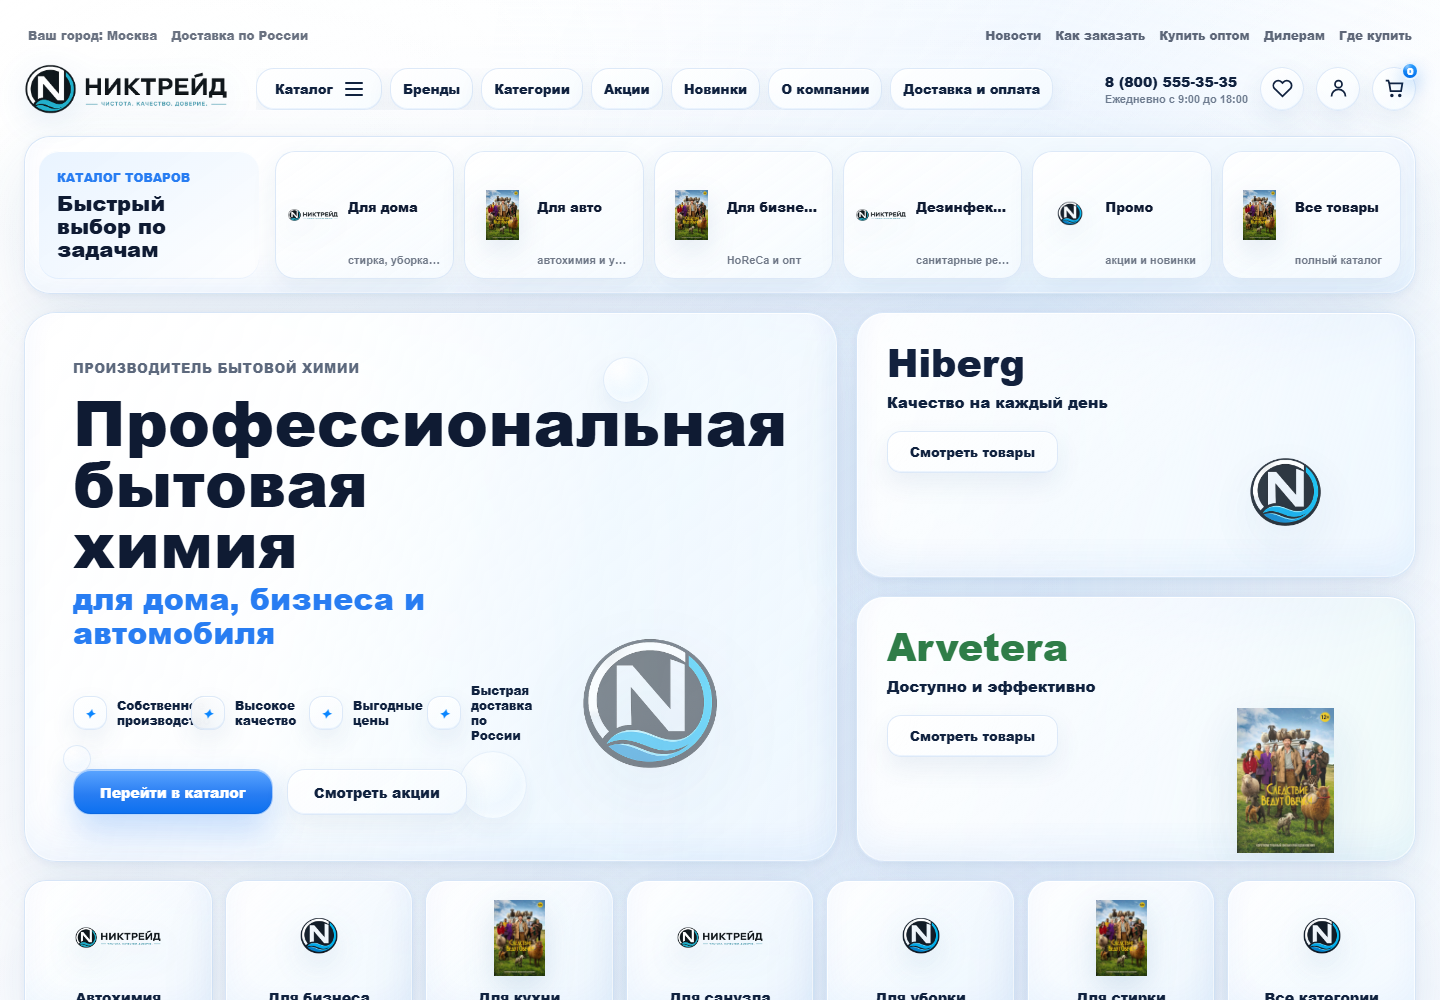
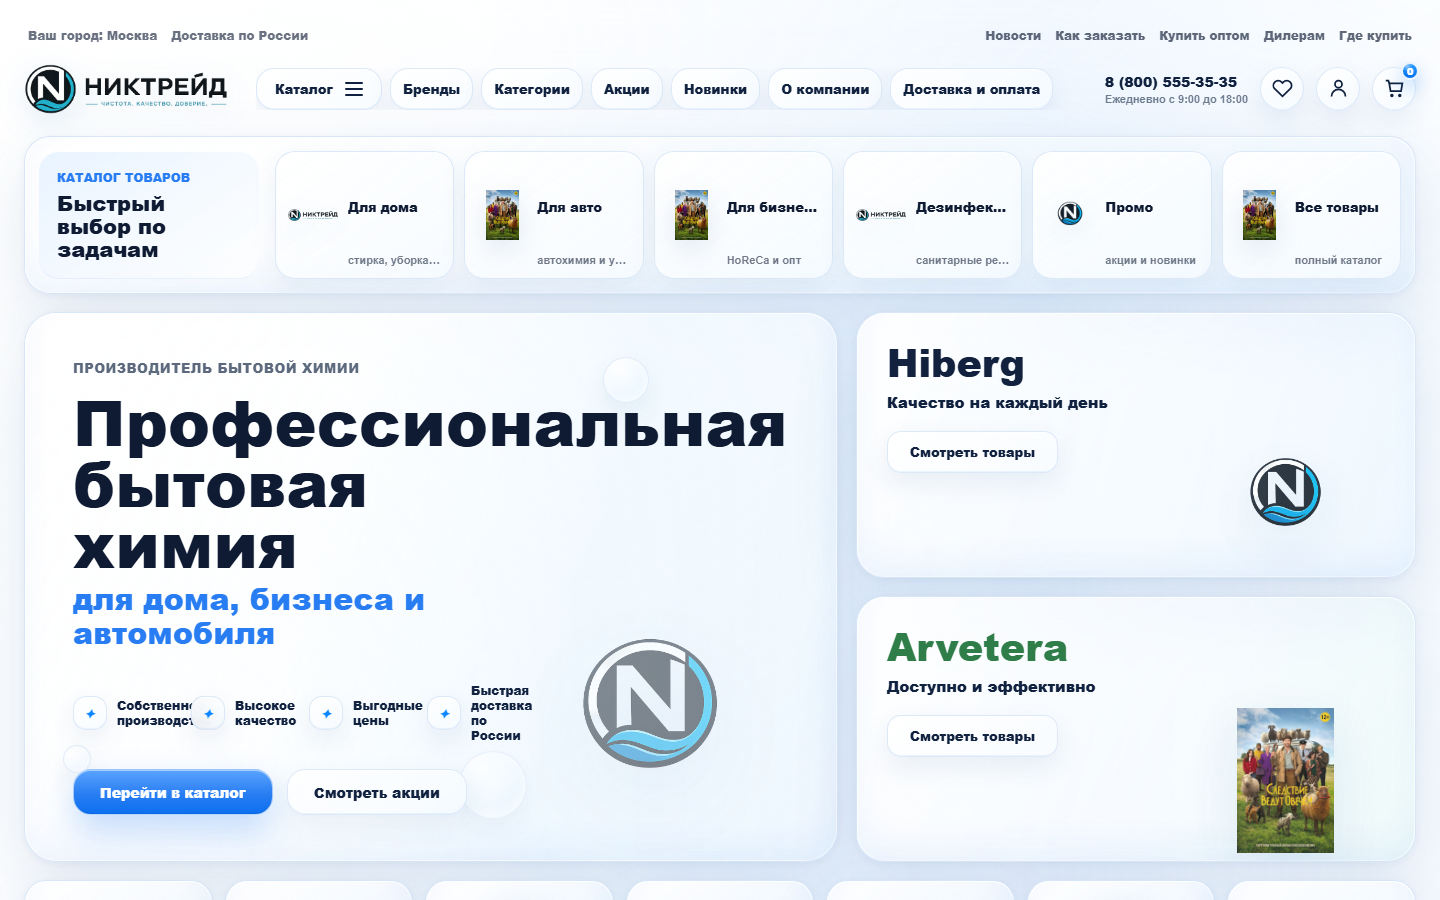
Use catalog2 page as homepage background

diff --git a/resources/views/welcome.blade.php b/resources/views/welcome.blade.php
@@ -23,12 +23,29 @@
         .background {
             position: fixed;
             inset: 0;
-            background-image: url('/images/homepage/niktrade-preview.png');
-            background-size: cover;
-            background-position: top center;
+            overflow: hidden;
+        }
+
+        .background-fallback,
+        .background-frame {
+            position: absolute;
+            inset: 0;
+            width: 100%;
+            height: 100%;
             filter: blur(2px) saturate(1.08) contrast(1.06);
             transform: scale(1.01);
             opacity: 1;
+        }
+
+        .background-fallback {
+            background-image: url('/images/homepage/niktrade-preview.png');
+            background-size: cover;
+            background-position: top center;
+        }
+
+        .background-frame {
+            border: 0;
+            pointer-events: none;
         }
 
         .overlay {
@@ -243,7 +260,16 @@
 </head>
 <body>
 
-<div class="background"></div>
+<div class="background" aria-hidden="true">
+    <div class="background-fallback"></div>
+    <iframe
+        class="background-frame"
+        src="{{ route('catalog.preview') }}"
+        title="Превью страницы catalog2"
+        tabindex="-1"
+        scrolling="no"
+    ></iframe>
+</div>
 <div class="overlay"></div>
 
 <div class="content">
